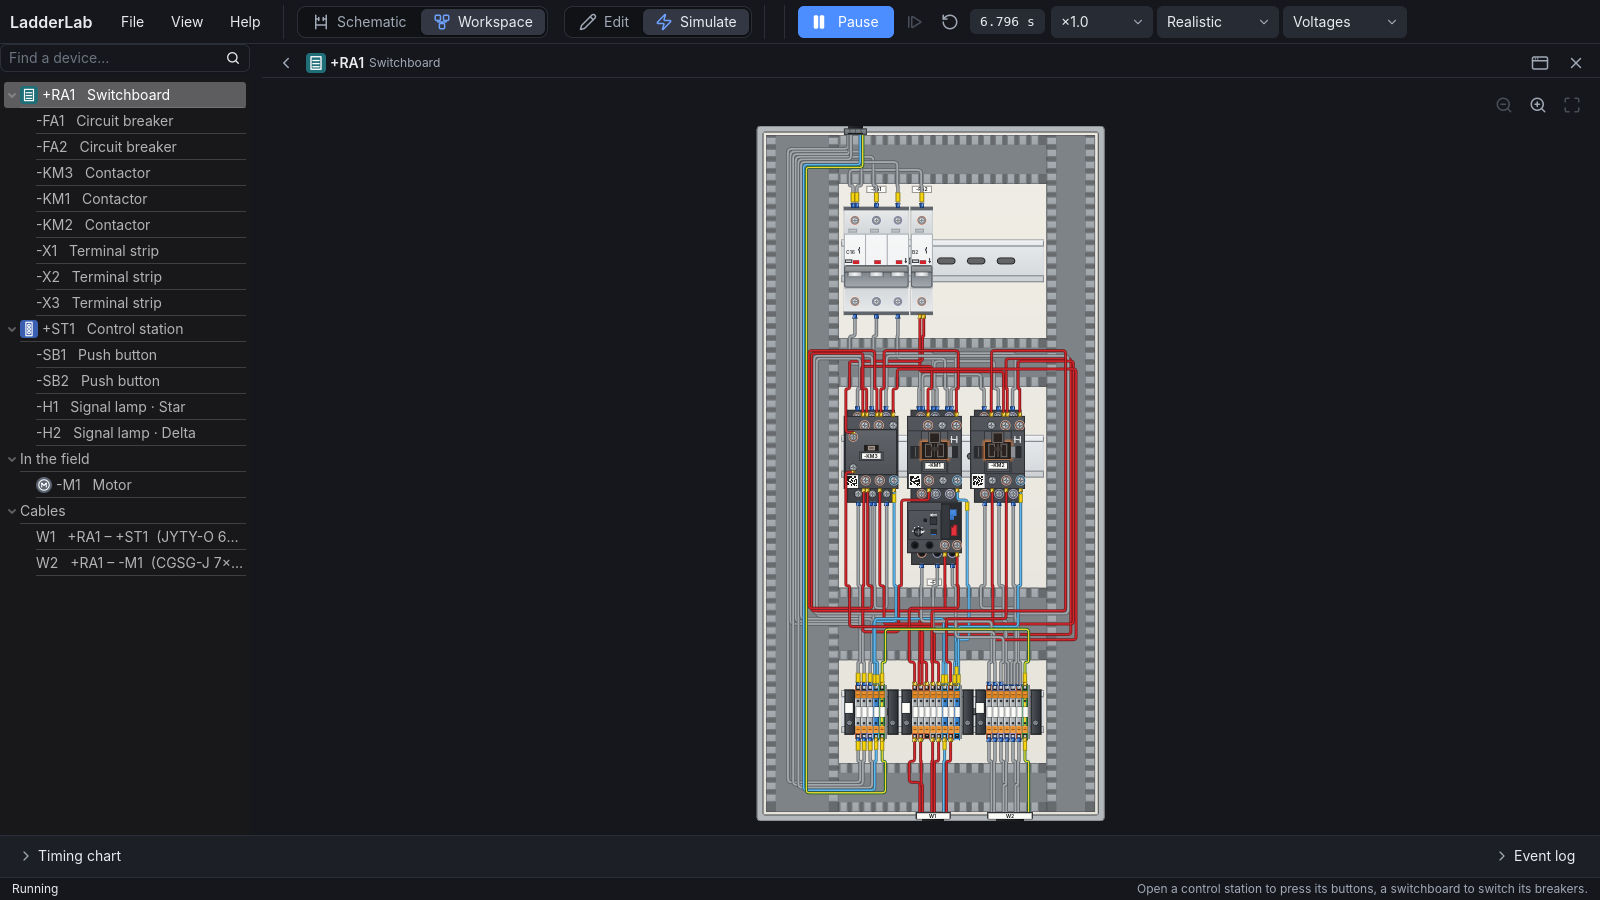
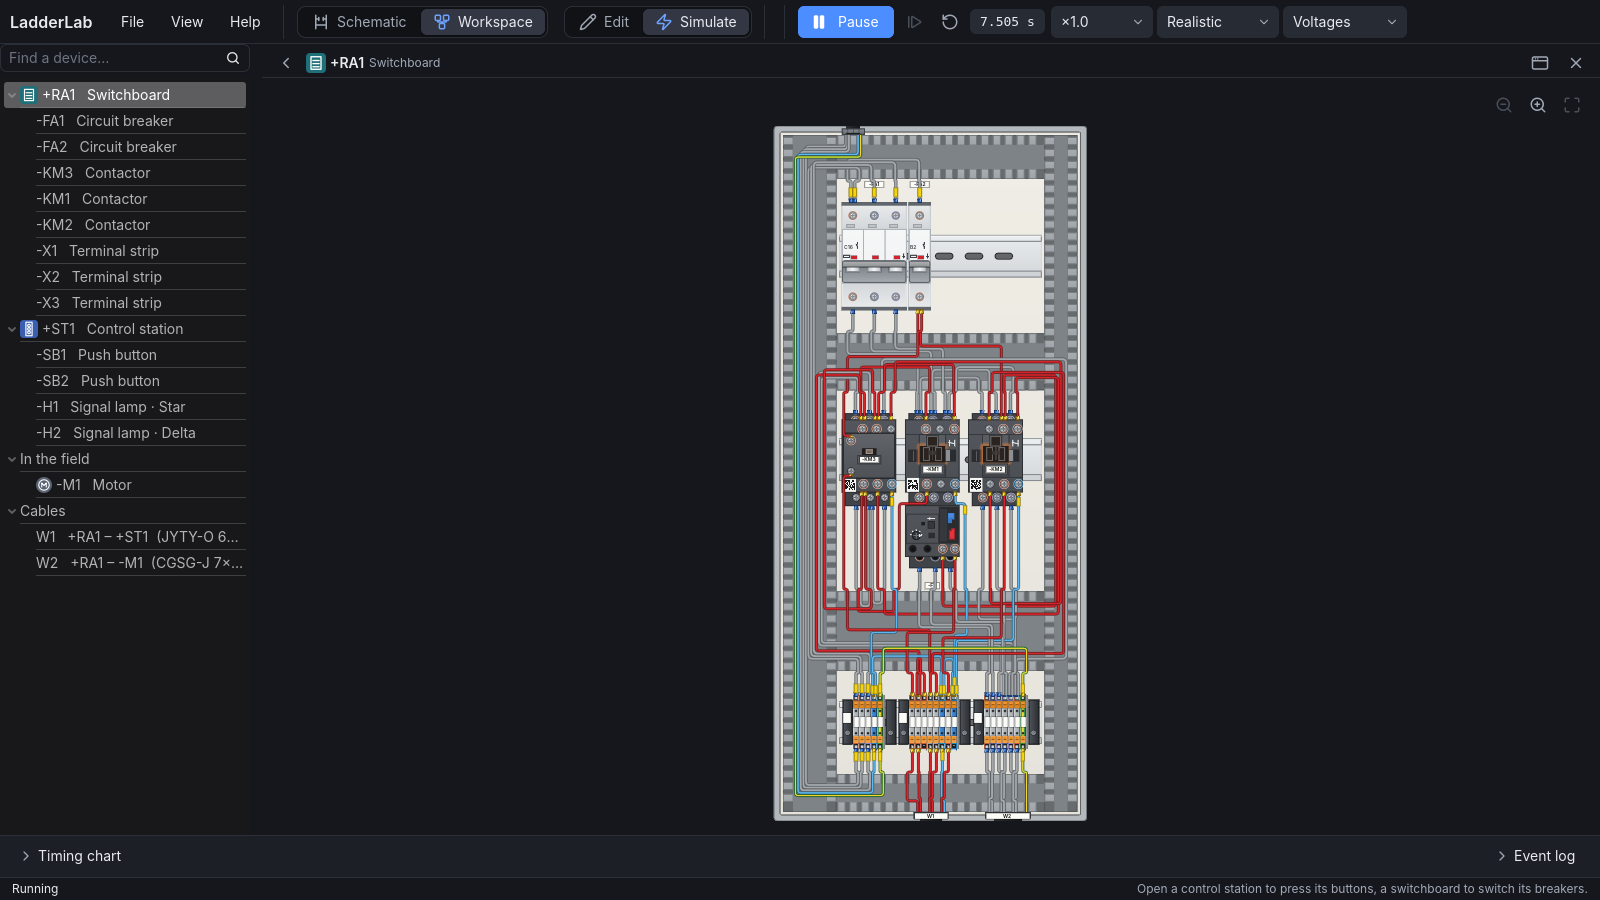
Switchboard ducts just wide enough; wires laid in order
Each duct is just as wide as its wires need side by side, in whole
millimetres. The lanes in a duct are laid so wires are easy to follow:
wires coming in over one edge lie nearest it, a run nested in another
nearer the edge, wires coming in over both edges between them stepped
by the way they head, each run past every earlier run it overlaps; the
wires going through one slot are ordered so none crosses another on its
way to its lane. Crossings in the example switchboards: 3874 -> 1489.

Changed region(s): [[0.4688, 0.1244, 0.6875, 0.9333]]

diff --git a/docs/DEVELOPMENT.md b/docs/DEVELOPMENT.md
@@ -310,11 +310,15 @@ Architecture and conventions of the code base. Read this before changing the cod
   the picked terminals along the strip), else by label. Wired after the circuit (CabinetWiring): each net
   joins its terminals on the rails along the shortest tree, every wire straight from its terminal
   to the duct over or under its rail, in through a slot between the fingers, along the duct in a
-  lane of its own (down a side duct to another duct); each duct is as wide as its wires need
-  side by side at its busiest point (CabinetWiring.lanes; CabinetLayout.duct_size, of
-  CabinetLayout.DUCT_SIZES 25-120 mm; CabinetLayout.build lays out, wires and sizes again until
-  every duct fits, never narrowing one, and keeps that wiring, CabinetLayout.wiring; the view
-  lays out again only for edits and a new scale); a contactor with its overload relay under
+  lane of its own (down a side duct to another duct); the lanes are laid so wires are easy
+  to follow (CabinetWiring._lanes): wires coming in over one edge of a duct lie nearest it, a
+  run nested in another nearer the edge, those coming in over both edges between them, stepped
+  by the way they head; each run past every earlier run it overlaps; the wires in one slot
+  ordered so none crosses another on the way to its lane (CabinetWiring._order_slots); each
+  duct just as wide as its wires need side by side at its busiest point, in whole millimetres
+  (CabinetWiring.lanes, CabinetLayout.duct_size; CabinetLayout.build lays out, wires and sizes
+  again until every duct fits, never narrowing one, and keeps that wiring,
+  CabinetLayout.wiring; the view lays out again only for edits and a new scale); a contactor with its overload relay under
   it has a wiring channel on both sides (CabinetLayout.WIRE_CHANNEL): wires from its bottom
   terminals run across its front at heights clear of its screws (CabinetParts.CONTACTOR_OUT_Y)
   out to the nearer side and down beside the relay, never across it; wires from the auxiliary

diff --git a/CHANGELOG.md b/CHANGELOG.md
@@ -40,7 +40,9 @@ What changed in each LadderLab version. Version numbers follow the rules in
 - Switchboard wires go into their terminals as on a real device: in at the face of the
   terminal's tier past the screw, with insulated ferrule collars; device labels sit on the plate
   clear of the wire ends
-- Switchboard wire ducts are as wide as the wires running through them need (25 to 120 mm)
+- Switchboard wire ducts are just as wide as the wires running through them need
+- Switchboard wires are easier to follow: in each duct they lie in order by where they come in
+  and go out, so far fewer of them cross
 
 ### Files and export
 - PLC programs can be exported to a file and imported into another PLC (PLC window)
